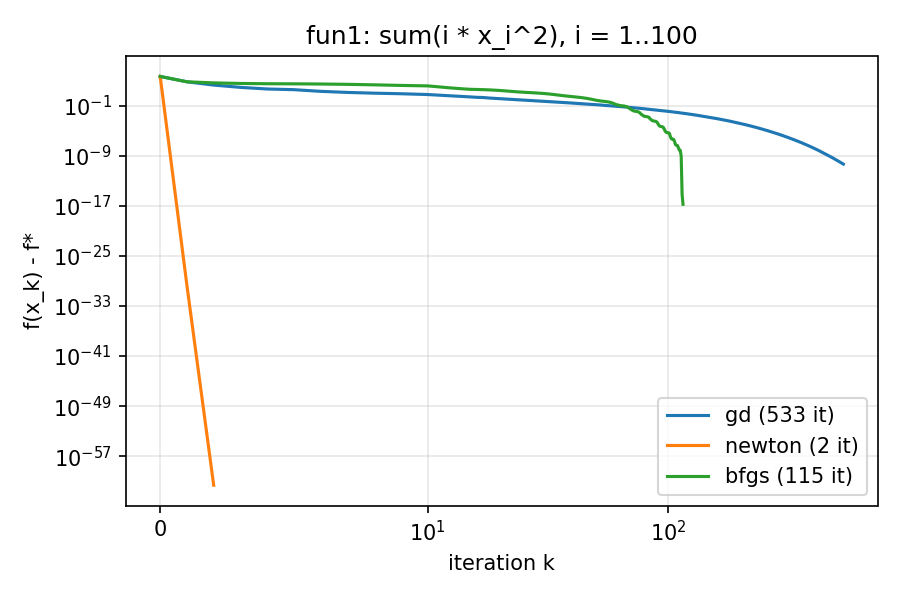
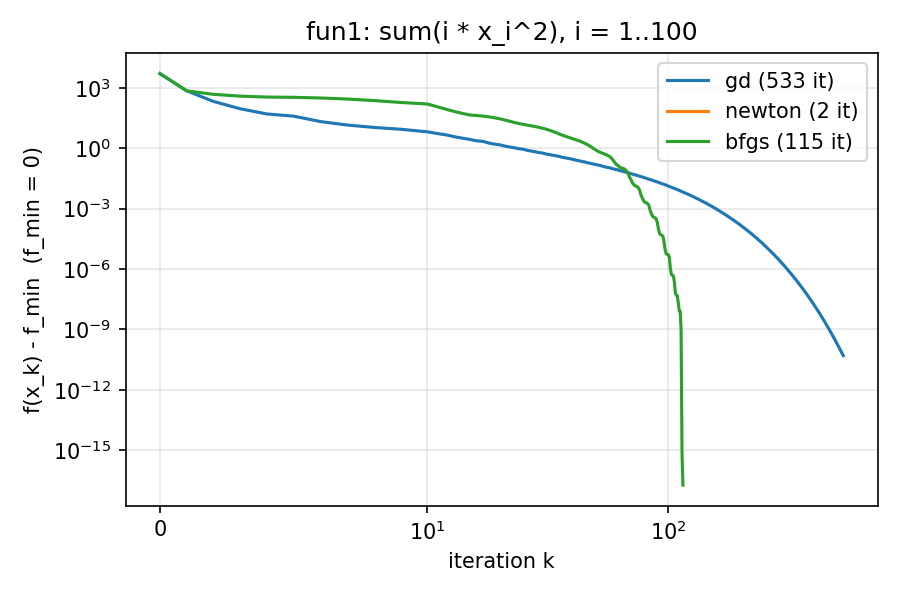
fix: draw the f_min convergence curve only for fun1
The project gives the true minimum only for fun1; fun2 and fun3 now plot
the gradient norm per iteration instead of a gap to an assumed minimum,
and fun3's minimum is marked withheld. Drop the tests for the removed
Greenstadt Newton and its leftover docstring.

diff --git a/inside/run.py b/inside/run.py
@@ -5,7 +5,7 @@
     python inside/run.py -functions fun3 --tol 1e-8      # the notes' stopping rule
 
 Prints one row per function and method (f at the solution, the gradient norm there, the
-iterations and the time) and saves a convergence plot per function to ``inside/results/``.
+iterations and the time) and saves one plot per function to ``inside/results/``.
 The default tolerance is 1e-12, because the notes' 1e-8 stops gradient descent early on
 fun3 (Rosenbrock), long before it reaches the minimum.
 """
@@ -84,10 +84,12 @@ def table(results):
 
 
 def plot(results, directory=RESULTS):
-    """One figure per function: f(x_k) - f* against k on a log scale, one line per method.
+    """One figure per function, one line per method, iteration k on the x-axis.
 
-    f* is the known minimum, or for fun2 (whose minimum the instructor withholds) the
-    lowest value any method reached (so the best run's last point is not drawn).
+    The project gives the true minimum only for fun1, "so that, for this particular
+    function, you can observe and show the convergence curve": fun1 gets f(x_k) - f_min.
+    fun2 and fun3 have their optima withheld, so they get the gradient norm |grad f(x_k)|,
+    which shows progress toward a stationary point without assuming a minimum.
     """
     import matplotlib
 
@@ -97,27 +99,32 @@ def plot(results, directory=RESULTS):
     directory.mkdir(exist_ok=True)
     paths = []
     for fname in dict.fromkeys(f for f, _ in results):
+        problem = PROBLEMS[fname]
         runs = {m: r for (f, m), (r, _) in results.items() if f == fname}
-        fstar = PROBLEMS[fname].minimum
-        if fstar is None:
-            fstar = min(r.f for r in runs.values())
         fig, ax = plt.subplots(figsize=(6, 4))
         for mname, r in runs.items():
-            gap = np.asarray(r.values) - fstar
-            gap[
-                gap <= 0
-            ] = np.nan  # reached f* to machine precision: nothing to draw on a log axis
-            ax.semilogy(gap, label=f"{mname} ({r.iterations} it)")
-        ax.set(
-            xlabel="iteration k",
-            ylabel="f(x_k) - f*",
-            title=f"{fname}: {PROBLEMS[fname].name}",
-        )
+            if problem.minimum is not None:
+                y = np.asarray(r.values) - problem.minimum
+                y[y <= 0] = (
+                    np.nan
+                )  # f_min reached exactly: nothing to draw on a log axis
+            else:
+                with np.errstate(all="ignore"):
+                    y = np.array([np.linalg.norm(problem.grad(x)) for x in r.path])
+            ax.semilogy(y, label=f"{mname} ({r.iterations} it)")
+        if problem.minimum is not None:
+            ylabel, kind = (
+                f"f(x_k) - f_min  (f_min = {problem.minimum:g})",
+                "convergence",
+            )
+        else:
+            ylabel, kind = "norm of grad f(x_k)", "gradient_norm"
+        ax.set(xlabel="iteration k", ylabel=ylabel, title=f"{fname}: {problem.name}")
         ax.set_xscale("symlog", linthresh=10)
         ax.grid(True, which="both", alpha=0.3)
         ax.legend()
         fig.tight_layout()
-        path = directory / f"{fname}_convergence.png"
+        path = directory / f"{fname}_{kind}.png"
         fig.savefig(path, dpi=150)
         plt.close(fig)
         paths.append(path)

diff --git a/inside/tests/test_newton.py b/inside/tests/test_newton.py
@@ -10,7 +10,7 @@ from __future__ import annotations
 import numpy as np
 import pytest
 
-from newton import greenstadt, newton
+from newton import newton
 from notes_examples import EXPONENTIAL, QUADRATIC
 
 RUNS = {"4.1 quadratic": QUADRATIC, "4.1 exponential": EXPONENTIAL}
@@ -59,19 +59,3 @@ def test_newton_converges_quadratically():
     e = [np.linalg.norm(x - x_star) for x in r.path]
     tail = [k for k in range(1, len(e) - 1) if 1e-10 < e[k] < 1e-2 and e[k + 1] > 0]
     assert tail and all(e[k + 1] <= 10 * e[k] ** 2 for k in tail)
-
-
-def test_greenstadt_makes_an_indefinite_hessian_positive_definite():
-    """p.24: H + E is symmetric p.d., its smallest eigenvalue bounded away from 0."""
-    H = np.array([[1.0, 3.0], [3.0, 1.0]])  # eigenvalues 4, -2
-    Hm = greenstadt(H)
-    assert Hm == pytest.approx(Hm.T)
-    assert np.linalg.eigvalsh(Hm) == pytest.approx([2.0, 4.0])
-
-
-def test_greenstadt_leaves_a_positive_definite_hessian_alone():
-    """Where H is already p.d., modified Newton takes the same steps as plain Newton."""
-    plain = newton(*EXPONENTIAL)
-    modified = newton(*EXPONENTIAL, modified=True)
-    assert modified.iterations == plain.iterations
-    assert modified.x == pytest.approx(plain.x)

diff --git a/inside/newton.py b/inside/newton.py
@@ -1,9 +1,7 @@
 """Newton's method (notes section 4, p.21): solve H(x) p = -grad f(x), alpha0 = 1 always.
 
-Plain Newton needs H positive definite wherever it is evaluated (p.23). ``modified=True``
-applies the further-reading fix on p.24, Greenstadt's method: rebuild H from its
-eigenvectors with every eigenvalue lifted to max(|lambda|, delta), so H + E is symmetric
-positive definite and not close to singular.
+Newton needs H positive definite wherever it is evaluated (p.23); otherwise the direction
+may point uphill and the line search raises.
 """
 
 from __future__ import annotations
@@ -13,8 +11,6 @@ import numpy as np
 from line_search import minimize
 
 __all__ = ["newton", "newton_direction"]
-
-DELTA = 1e-8  # smallest eigenvalue the modified Hessian may have
 
 
 def newton_direction(H, g):

diff --git a/inside/functions.py b/inside/functions.py
@@ -220,8 +220,8 @@ PROBLEMS = {
         hess=fun3_hess,
         n=2,
         x0=np.array([-1.2, 1.0]),
-        minimum=0.0,
-        note="Rosenbrock. Non-convex. Its minimum, 0 at (1, 1), is the textbook value; the "
-        "instructor does not give it. (-1.2, 1.0) is the standard starting point.",
+        minimum=None,
+        note="Rosenbrock. Non-convex. The instructor withholds its minimum until after the "
+        "project (the textbook value is 0 at (1, 1)). (-1.2, 1.0) is the standard start.",
     ),
 }

diff --git a/README.md b/README.md
@@ -53,9 +53,11 @@ python inside/run.py -functions fun3 -methods bfgs  # a subset (methods: gd, new
 ```
 
 It prints one row per function and method: f at the solution, the gradient norm there,
-the iterations and the time, and saves `inside/results/fun{1,2,3}_convergence.png`
-(f(x_k) - f* per iteration). `--tol` changes the stopping rule (default 1e-12);
-`--no-plot` skips the figures.
+the iterations and the time, and saves the plots to `inside/results/`:
+`fun1_convergence.png` (f(x_k) - f_min, the convergence curve the project asks for, since
+fun1 is the only function whose minimum is given) and `fun2_gradient_norm.png`,
+`fun3_gradient_norm.png` (norm of grad f(x_k), which needs no minimum). `--tol` changes
+the stopping rule (default 1e-12); `--no-plot` skips the figures.
 
 | Function | Method | f(x*) | norm grad f(x*) | Iterations |
 |---|---|---|---|---|
